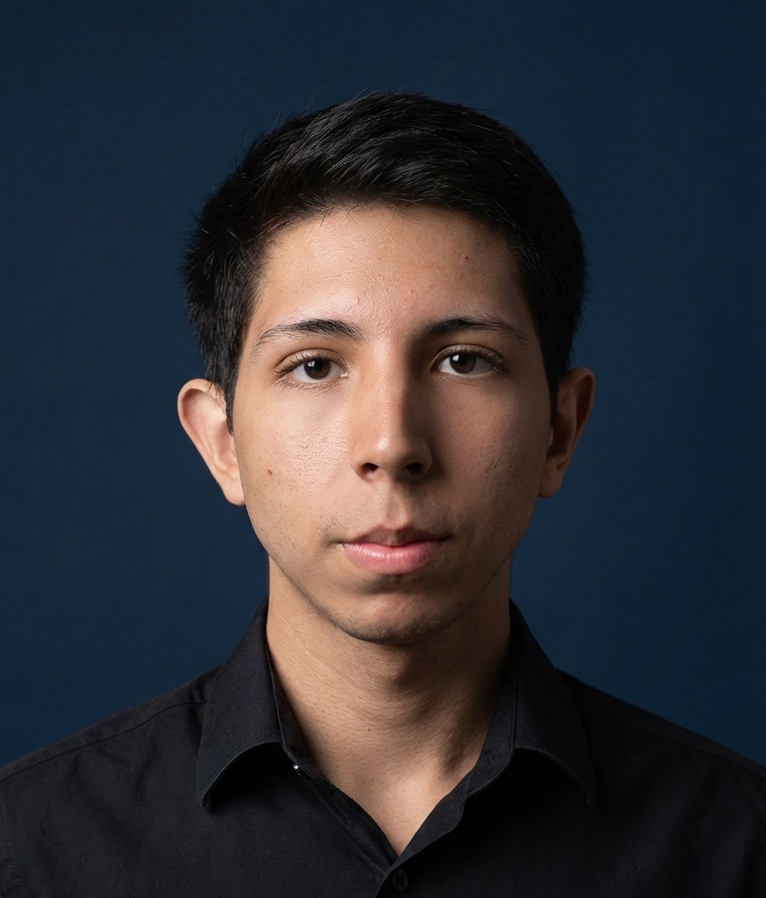
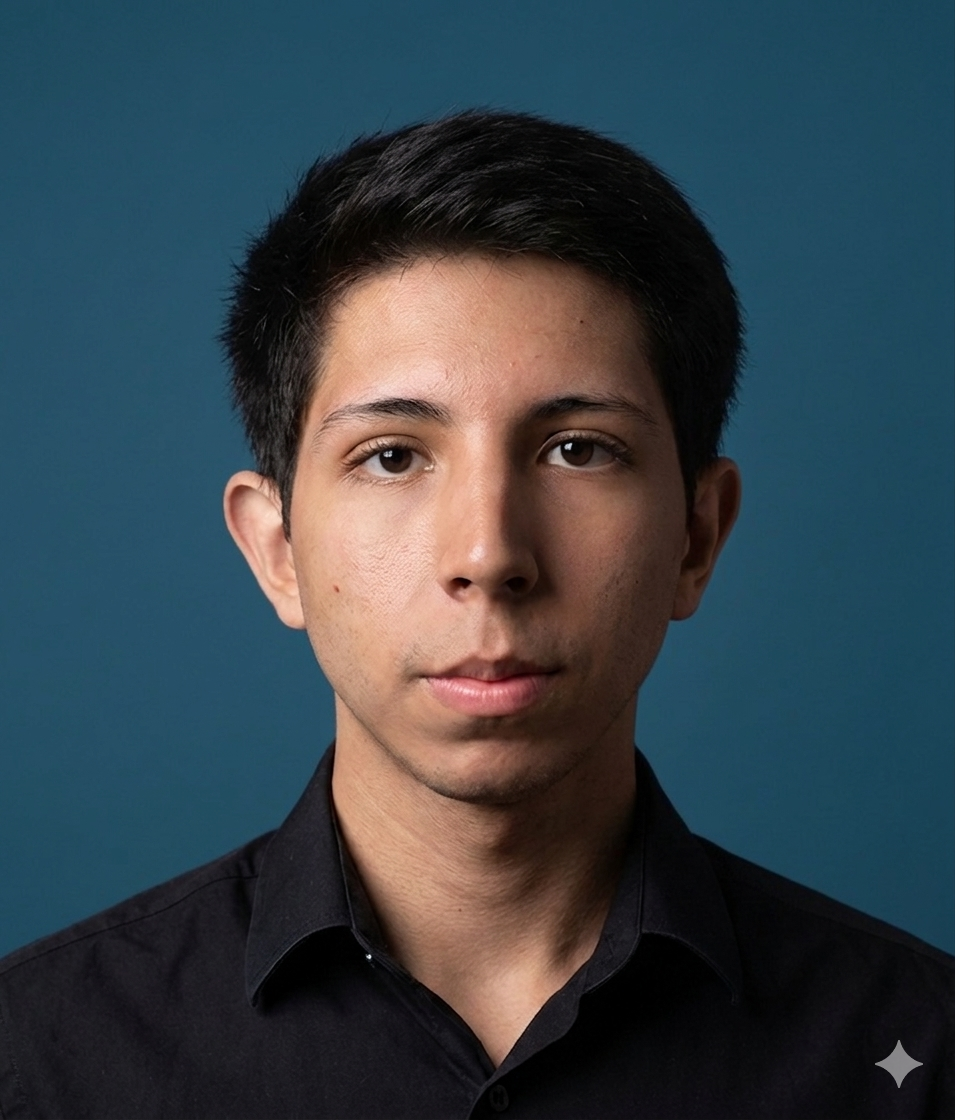
Pequena Att

diff --git a/assets/js/project.js b/assets/js/project.js
@@ -75,10 +75,11 @@
       </div>
       <div class="hero-ctas">
         ${proj.links?.repo ? `<a class="btn ghost" target="_blank" rel="noreferrer" href="${escapeAttr(proj.links.repo)}">REPOSITÓRIO</a>` : ""}
-        ${proj.links?.live ? `<a class="btn" target="_blank" rel="noreferrer" href="${escapeAttr(proj.links.live)}">DEMO</a>` : ""}
+        ${proj.links?.live ? `<a class="btn" target="_blank" rel="noreferrer" href="${escapeAttr(proj.links.live)}">PROJETO NA WEB</a>` : ""}
         <a class="btn ghost" href="project.html#${encodeURIComponent(nextPrev.prev.id)}">◀ ANTERIOR</a>
         <a class="btn ghost" href="project.html#${encodeURIComponent(nextPrev.next.id)}">PRÓXIMO ▶</a>
         <a class="btn" href="projects.html">VOLTAR</a>
+        
       </div>
     </div>
   `;
